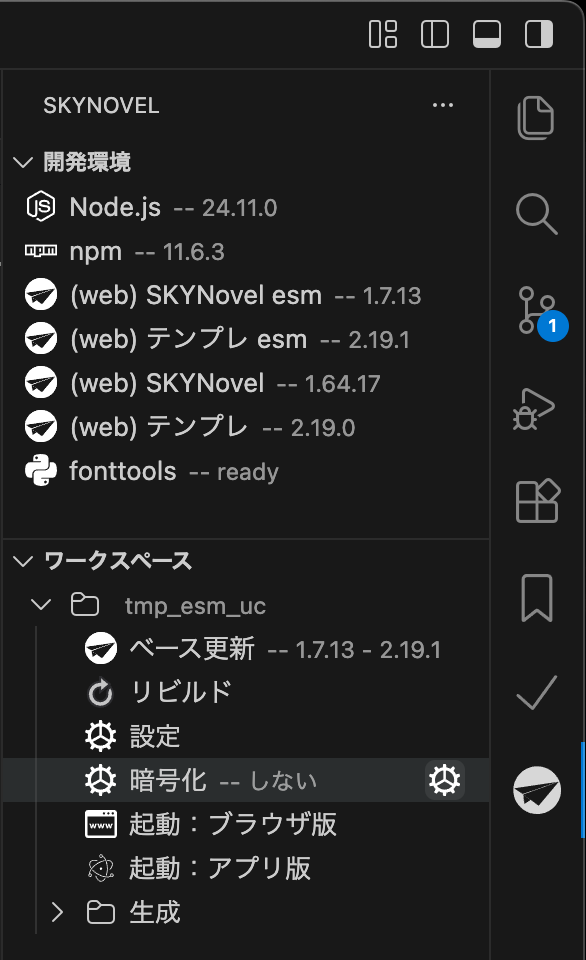
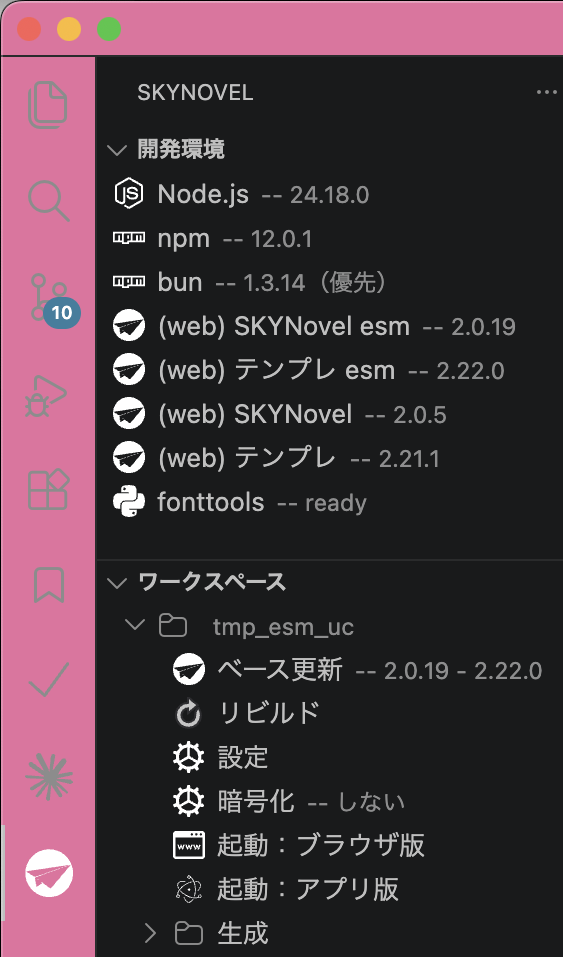
保存7/28a

diff --git a/TODO.md b/TODO.md
@@ -14,6 +14,10 @@
 **決着した項目はこの一覧から行ごと消す**（経緯は各節に残す）。
 残っているものが「いま何ができるか」と一致していない一覧は、読む価値が無くなる。
 
+⚠ **判断を仰いだことは、その場で言うだけでなく必ずここへ書く。**
+`.claude/settings.json` の件は口頭で指摘しただけで一覧に入れず、
+**そのままコミットされた**（2026-07-28）。会話の流れに出しただけでは残らない。
+
 ### 期日あり
 
 | 内容 | 時期 | 節 |
@@ -35,6 +39,18 @@
 ### いつでも安全に着手できる
 
 **現在なし**（2026-07-28 に「同梱物の軽量化」「起動時間の実測」「(A) 再現テスト」を消化）。
+
+### 👁 alpha（v4.33.0）で目視確認してほしいこと
+
+**私が動作確認できず、まだ誰も見ていない変更。** alpha を出す目的そのもの。
+
+| # | 変更 | 見てほしいこと |
+|---|---|---|
+| 1 | **アイコン53箇所を SVG 化** | `.ssn` エディタ（46箇所）と ToolBox（7箇所）の**見た目**。字形は同じ 5.15.4 だが、寸法・位置は `views/lib/bootstrap2vscode.css` の `.fa-i` 頼み。**46箇所は自動テストが無い凍結領域** |
+| 2 | 音声最適化タブのシェブロン | **今まで出ていなかったものが出る**。位置がおかしくないか |
+| 3 | `views/envinfo/node_win9.jpg` を 1978→1000px | 説明ページで**文字が読めるか** |
+| 4 | `set_cancel_skip` をリファレンスパレットから除外 | 意図どおりか（ホバー・補完には残る） |
+| 5 | 旧版同居の警告（`#chkOldExt`） | 実際に旧版と同居させたときの**文言と出方** |
 
 ### 手を動かす必要がある／別環境が要る
 
@@ -58,17 +74,7 @@
 
 （受付箱はカラ。2026-07-27 の9件は処理済み）
 
-### ❓ こちらから聞いて、まだ返事をもらっていないもの
-
-作業を進める上で判断が要るのに、流れの中で答えが出ていないもの。
-**急がないが、忘れると同じことをまた聞くことになる。**
-
-| # | 質問 | 出た文脈 | 保留中の影響 |
-|---|---|---|---|
-| 3 | **移行案内の3本（README / ブログ / テンプレ README）の文面はこれでよいか** | §8.5 | v5.0.0 まで公開しないので急がない |
-
-**2026-07-28 に決着したもの**：`displayName` は現状のまま／`verNum()` を頑丈に（実装済み）／
-テンプレ2本の CLAUDE.md は作者が対応／`test:ui` は当面自作のまま（§4.5）／起動時間は実測済み（§4.5）
+（こちらからの確認事項も 2026-07-28 にすべて回答済み）
 
 ---
 
@@ -1190,6 +1196,8 @@ Windows は `certutil -hashfile skynovel2-4.31.1.vsix SHA256`。
 
 ## 8.5. 移行案内の原稿【改名版のリリース時に使う】
 
+✅ **文面は作者確認済み（2026-07-28）。** そのまま使ってよい。
+
 ⚠ **まだ公開しない。** **v5.0.0 正式版**まで出さない（alpha 段階で出すと、
 落ち着いていないものへ全員を移行させてしまう）。
 README の「⚠ Important Notice」ブロック（現在は Marketplace 停止のお知らせ）を
@@ -1243,8 +1251,33 @@ Your projects are not affected. Nothing under `doc/prj/` is touched by this.
 
 ### (2) ブログ記事（貼り付け用 HTML）
 
-本文は上の日本語版と同内容。見出しは `<h2>`、手順は `<ol>`。
-過去の記事（blog-entry-980）からの続きなので、冒頭で経緯に触れる。
+過去の記事（[blog-entry-980](https://famibee.blog.fc2.com/blog-entry-980.html)）の
+続報として。**そのまま貼れる形**で置く（方針だけ書いても再現できないため）。
+
+```html
+<p>2026年7月にお知らせした Marketplace の件について、続報です。</p>
+
+<h2>拡張機能の名前が変わります</h2>
+<p>削除された拡張機能の ID は<strong>復活しない</strong>と Microsoft から回答がありました。旧ページ・インストール数・レビューは戻りません。そのため修正版は<strong>新しい名前</strong>で公開します。</p>
+<ul>
+<li>旧：<code>famibee2.skynovel2</code>（SKYNovel）</li>
+<li><strong>新：<code>famibee2.bluesnovel</code>（BlueSNovel / SKYNovel）</strong></li>
+</ul>
+<p>中身は同じ拡張機能です。SKYNovel と BlueSNovel の両方に対応している点も変わりません。両エンジンを見るので、表示名は両方を名乗ることにしました。</p>
+
+<h2>⚠ 新版を入れる前に、旧版をアンインストールしてください</h2>
+<p>旧版と新版は VSCode から見て<strong>別の拡張機能</strong>なので、両方同時に入ってしまいます。どちらも同じコマンド ID・ビュー ID を登録するため、そのままでは衝突して誤動作します。</p>
+<ol>
+<li>拡張機能ビューで <strong>SKYNovel</strong>（<code>famibee2.skynovel2</code>）を探し、<strong>アンインストール</strong></li>
+<li><strong>BlueSNovel / SKYNovel</strong>（<code>famibee2.bluesnovel</code>）を入れる</li>
+<li>ウィンドウを再読み込み</li>
+</ol>
+<p>作品プロジェクトには影響しません。<code>doc/prj/</code> 以下は一切触りません。</p>
+<p>なお新版には、旧版が入ったままだと<strong>起動時に知らせる仕組み</strong>を入れてあります。うっかり両方入れてしまっても気づけます。</p>
+
+<h2>今後の更新について</h2>
+<p>新版には<strong>更新のお知らせ機能</strong>が入っています（v4.31.2〜）。新しい版が出たときに通知します。<strong>通知のみで、ダウンロードもインストールも行いません。</strong>設定で切ることもできます。</p>
+```
 
 ### (3) テンプレリポジトリの README 追記（tmp_esm_uc / tmp_blues）
 
